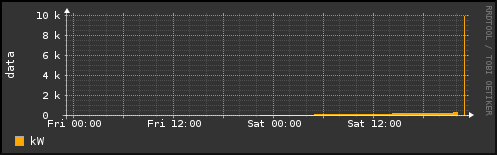
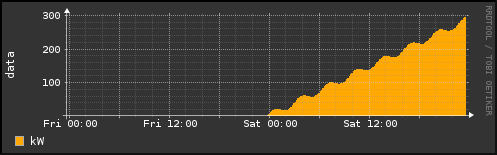
tempsave

diff --git a/powerdogGraph.py b/powerdogGraph.py
@@ -28,7 +28,7 @@ maxSteps = int((endTime-startTime)/step)
 
 # Let's create and RRD file and dump some data in it
 dss = []
-ds1 = DS(dsName='speed', dsType='GAUGE', heartbeat=300)
+ds1 = DS(dsName='kW', dsType='GAUGE', heartbeat=300)
 dss.append(ds1)
 
 rras = []

diff --git a/solarGraphUpdate.py b/solarGraphUpdate.py
@@ -10,6 +10,7 @@ from pyrrd.rrd import RRD
 myRRD = RRD('A1_B1_S14.rrd')
 
 myRRD.bufferValue(time.time(),  10000)
+#myRRD.bufferValue(1518825600,  10000)
 myRRD.update()
 
 myRRD.info()

diff --git a/solarGraphDisplay.py b/solarGraphDisplay.py
@@ -1,4 +1,4 @@
-
+#coding=utf-8
 import time
 
 from pyrrd.rrd import RRD, RRA, DS

diff --git a/solarGraph.py b/solarGraph.py
@@ -1,0 +1,1 @@
+#coding=utf-8
